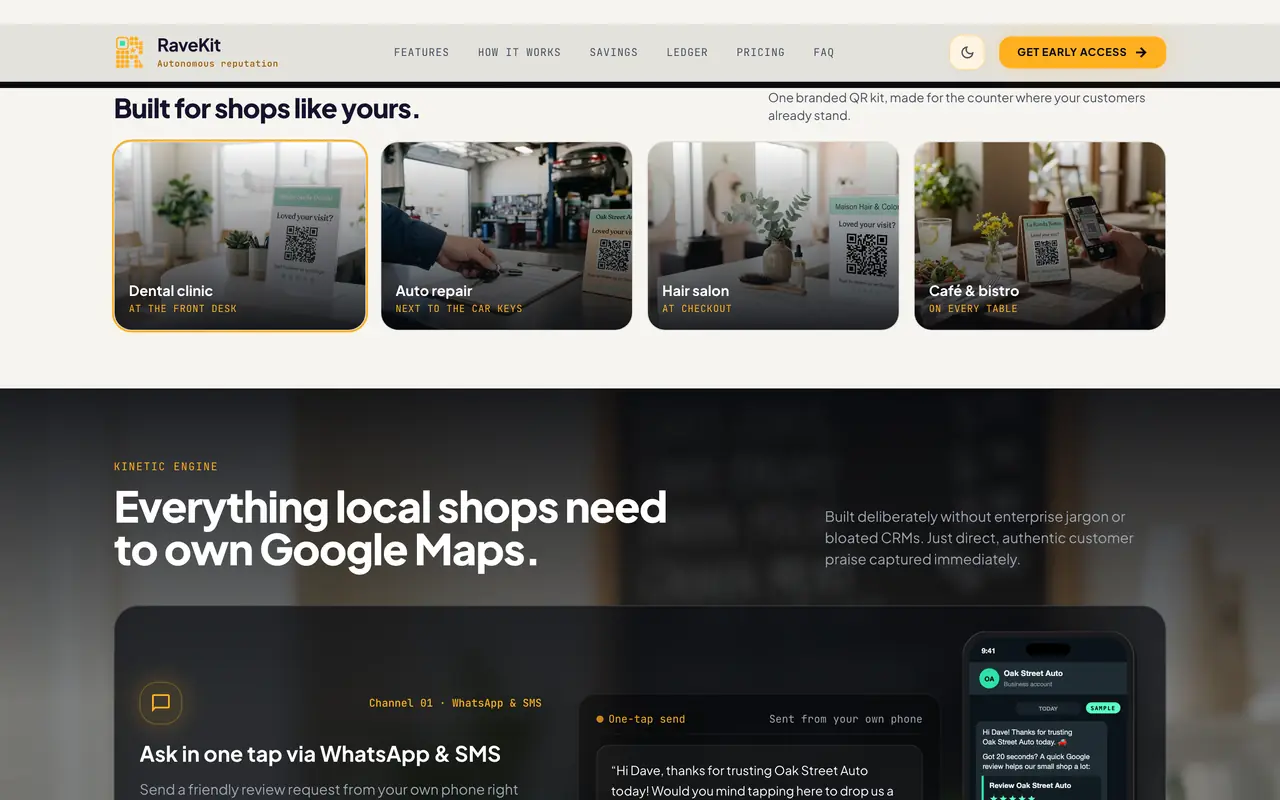
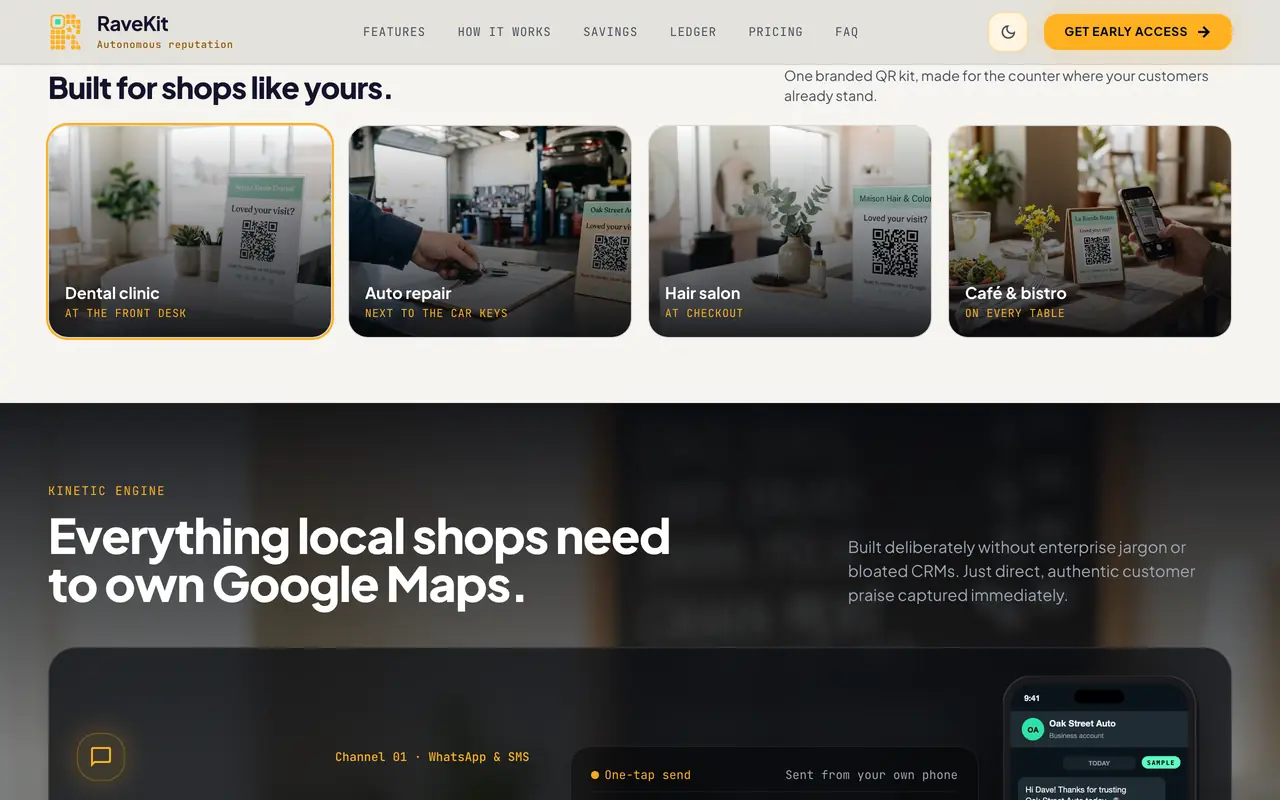
RaveKit: capturas claras nuevas en el portfolio y en el sitio publicado (sobre la versión en producción f7008cd)
Parte de la versión que está hoy en site.malackath.com (f7008cd) y le suma
solo lo de RaveKit: las capturas claras nuevas del portfolio (compu 10,
celular 10) y la ventana del hero y las tarjetas de Inicio y Trabajo con la
captura nueva. hero.py apunta al nombre nuevo (con su resumen de contenido).

Claude-Session: https://claude.ai/code/session_01XZFFR1TYj6P3ko5Kfw86ME

diff --git a/portfolio/public/index.html b/portfolio/public/index.html
@@ -218,7 +218,7 @@ h1{font:800 clamp(44px,9vw,128px)/.9 var(--display);overflow-wrap:anywhere;lette
 </section>
 <section class="proyecto" id="ravekit">
   <header class="cab"><div class="logo f-lamina"><img src="img/p/ravekit-logo-4d8887c0.webp" width="512" height="320" alt="RaveKit" loading="lazy"></div><div><span class="num">13</span><span class="tipo">App</span><h2>RaveKit</h2><p>Autonomous reputation.</p><div class="temas" role="group" aria-label="Modo de color"><button type="button" class=on data-tema="cla" aria-pressed="true">Claro</button><button type="button" data-tema="osc" aria-pressed="false">Oscuro</button></div></div></header>
-  <div class="sims" data-tema="cla"><figure class="sim compu"><div class="marco"><div class="barra-nav"><i></i><i></i><i></i></div><div class="pantalla"><img data-src="img/p/ravekit-d-01-6c8c46e9.webp" width="1280" height="800" style="background:#090b0f" alt="RaveKit: Escritorio 1 de 10" class=on><img data-src="img/p/ravekit-d-02-e13c9eb0.webp" width="1280" height="800" style="background:#2b3030" alt="RaveKit: Escritorio 2 de 10"><img data-src="img/p/ravekit-d-03-4ec01071.webp" width="1280" height="800" style="background:#282a27" alt="RaveKit: Escritorio 3 de 10"><img data-src="img/p/ravekit-d-04-95b5a625.webp" width="1280" height="800" style="background:#faebe6" alt="RaveKit: Escritorio 4 de 10"><img data-src="img/p/ravekit-d-05-47f03961.webp" width="1280" height="800" style="background:#fef9f4" alt="RaveKit: Escritorio 5 de 10"><img data-src="img/p/ravekit-d-06-4dd83e68.webp" width="1280" height="800" style="background:#ecebe8" alt="RaveKit: Escritorio 6 de 10"><img data-src="img/p/ravekit-d-07-e22b55e7.webp" width="1280" height="800" style="background:#eeece8" alt="RaveKit: Escritorio 7 de 10"><img data-src="img/p/ravekit-d-08-8cb583c0.webp" width="1280" height="800" style="background:#f7f9fb" alt="RaveKit: Escritorio 8 de 10"><img data-src="img/p/ravekit-d-09-4c812a42.webp" width="1280" height="800" style="background:#e4e2de" alt="RaveKit: Escritorio 9 de 10"><img data-src="img/p/ravekit-d-10-438b652f.webp" width="1280" height="800" style="background:#ece8e3" alt="RaveKit: Escritorio 10 de 10"></div></div><div class="nav"><button type="button" class="ant" aria-label="Anterior">&#8592;</button><span class="cuenta">1 / 10</span><button type="button" class="sig" aria-label="Siguiente">&#8594;</button></div><div class="puntos"><button type="button" aria-label="Ver 1" class=on></button><button type="button" aria-label="Ver 2"></button><button type="button" aria-label="Ver 3"></button><button type="button" aria-label="Ver 4"></button><button type="button" aria-label="Ver 5"></button><button type="button" aria-label="Ver 6"></button><button type="button" aria-label="Ver 7"></button><button type="button" aria-label="Ver 8"></button><button type="button" aria-label="Ver 9"></button><button type="button" aria-label="Ver 10"></button></div><figcaption>Escritorio</figcaption></figure><figure class="sim cel"><div class="marco"><div class="isla"></div><div class="pantalla"><img data-src="img/p/ravekit-m-01-5a0e5128.webp" width="390" height="844" style="background:#906a26" alt="RaveKit: Celular 1 de 9" class=on><img data-src="img/p/ravekit-m-02-709109d1.webp" width="390" height="844" style="background:#f6f4f0" alt="RaveKit: Celular 2 de 9"><img data-src="img/p/ravekit-m-03-90e59a94.webp" width="390" height="844" style="background:#343537" alt="RaveKit: Celular 3 de 9"><img data-src="img/p/ravekit-m-04-ecc6d0e7.webp" width="390" height="844" style="background:#1c2224" alt="RaveKit: Celular 4 de 9"><img data-src="img/p/ravekit-m-05-5feb474f.webp" width="390" height="844" style="background:#2b241f" alt="RaveKit: Celular 5 de 9"><img data-src="img/p/ravekit-m-06-5f10bab3.webp" width="390" height="844" style="background:#e4f0ea" alt="RaveKit: Celular 6 de 9"><img data-src="img/p/ravekit-m-07-63328eb0.webp" width="390" height="844" style="background:#fcfdfd" alt="RaveKit: Celular 7 de 9"><img data-src="img/p/ravekit-m-08-8c57721d.webp" width="390" height="844" style="background:#f3f0ee" alt="RaveKit: Celular 8 de 9"><img data-src="img/p/ravekit-m-09-7352c49a.webp" width="390" height="844" style="background:#f9ece8" alt="RaveKit: Celular 9 de 9"></div></div><div class="nav"><button type="button" class="ant" aria-label="Anterior">&#8592;</button><span class="cuenta">1 / 9</span><button type="button" class="sig" aria-label="Siguiente">&#8594;</button></div><div class="puntos"><button type="button" aria-label="Ver 1" class=on></button><button type="button" aria-label="Ver 2"></button><button type="button" aria-label="Ver 3"></button><button type="button" aria-label="Ver 4"></button><button type="button" aria-label="Ver 5"></button><button type="button" aria-label="Ver 6"></button><button type="button" aria-label="Ver 7"></button><button type="button" aria-label="Ver 8"></button><button type="button" aria-label="Ver 9"></button></div><figcaption>Celular</figcaption></figure></div>
+  <div class="sims" data-tema="cla"><figure class="sim compu"><div class="marco"><div class="barra-nav"><i></i><i></i><i></i></div><div class="pantalla"><img data-src="img/p/ravekit-d-01-62343fe9.webp" width="1280" height="800" style="background:#0a0c10" alt="RaveKit: Escritorio 1 de 10" class=on><img data-src="img/p/ravekit-d-02-19f1b561.webp" width="1280" height="800" style="background:#222526" alt="RaveKit: Escritorio 2 de 10"><img data-src="img/p/ravekit-d-03-95ffd1a4.webp" width="1280" height="800" style="background:#222626" alt="RaveKit: Escritorio 3 de 10"><img data-src="img/p/ravekit-d-04-514fe1e4.webp" width="1280" height="800" style="background:#fcefea" alt="RaveKit: Escritorio 4 de 10"><img data-src="img/p/ravekit-d-05-ea88f3f8.webp" width="1280" height="800" style="background:#fffbf5" alt="RaveKit: Escritorio 5 de 10"><img data-src="img/p/ravekit-d-06-b8fd362f.webp" width="1280" height="800" style="background:#f6f4f0" alt="RaveKit: Escritorio 6 de 10"><img data-src="img/p/ravekit-d-07-7ae8a3fa.webp" width="1280" height="800" style="background:#f9e1b5" alt="RaveKit: Escritorio 7 de 10"><img data-src="img/p/ravekit-d-08-b170a0e1.webp" width="1280" height="800" style="background:#f9fafc" alt="RaveKit: Escritorio 8 de 10"><img data-src="img/p/ravekit-d-09-b022caf0.webp" width="1280" height="800" style="background:#efece8" alt="RaveKit: Escritorio 9 de 10"><img data-src="img/p/ravekit-d-10-915a57f5.webp" width="1280" height="800" style="background:#ece8e3" alt="RaveKit: Escritorio 10 de 10"></div></div><div class="nav"><button type="button" class="ant" aria-label="Anterior">&#8592;</button><span class="cuenta">1 / 10</span><button type="button" class="sig" aria-label="Siguiente">&#8594;</button></div><div class="puntos"><button type="button" aria-label="Ver 1" class=on></button><button type="button" aria-label="Ver 2"></button><button type="button" aria-label="Ver 3"></button><button type="button" aria-label="Ver 4"></button><button type="button" aria-label="Ver 5"></button><button type="button" aria-label="Ver 6"></button><button type="button" aria-label="Ver 7"></button><button type="button" aria-label="Ver 8"></button><button type="button" aria-label="Ver 9"></button><button type="button" aria-label="Ver 10"></button></div><figcaption>Escritorio</figcaption></figure><figure class="sim cel"><div class="marco"><div class="isla"></div><div class="pantalla"><img data-src="img/p/ravekit-m-01-a89c528b.webp" width="390" height="844" style="background:#d4931d" alt="RaveKit: Celular 1 de 10" class=on><img data-src="img/p/ravekit-m-02-1c2f8243.webp" width="390" height="844" style="background:#191a1b" alt="RaveKit: Celular 2 de 10"><img data-src="img/p/ravekit-m-03-6022fecf.webp" width="390" height="844" style="background:#262624" alt="RaveKit: Celular 3 de 10"><img data-src="img/p/ravekit-m-04-3c3fa0c3.webp" width="390" height="844" style="background:#fcfdfd" alt="RaveKit: Celular 4 de 10"><img data-src="img/p/ravekit-m-05-86649b4b.webp" width="390" height="844" style="background:#f0e7e9" alt="RaveKit: Celular 5 de 10"><img data-src="img/p/ravekit-m-06-e3078f39.webp" width="390" height="844" style="background:#f5f3f3" alt="RaveKit: Celular 6 de 10"><img data-src="img/p/ravekit-m-07-ecb959ec.webp" width="390" height="844" style="background:#f0f0f0" alt="RaveKit: Celular 7 de 10"><img data-src="img/p/ravekit-m-08-7ee57610.webp" width="390" height="844" style="background:#e9e9ec" alt="RaveKit: Celular 8 de 10"><img data-src="img/p/ravekit-m-09-78658dad.webp" width="390" height="844" style="background:#ece8e3" alt="RaveKit: Celular 9 de 10"><img data-src="img/p/ravekit-m-10-147e84ce.webp" width="390" height="844" style="background:#ece8e3" alt="RaveKit: Celular 10 de 10"></div></div><div class="nav"><button type="button" class="ant" aria-label="Anterior">&#8592;</button><span class="cuenta">1 / 10</span><button type="button" class="sig" aria-label="Siguiente">&#8594;</button></div><div class="puntos"><button type="button" aria-label="Ver 1" class=on></button><button type="button" aria-label="Ver 2"></button><button type="button" aria-label="Ver 3"></button><button type="button" aria-label="Ver 4"></button><button type="button" aria-label="Ver 5"></button><button type="button" aria-label="Ver 6"></button><button type="button" aria-label="Ver 7"></button><button type="button" aria-label="Ver 8"></button><button type="button" aria-label="Ver 9"></button><button type="button" aria-label="Ver 10"></button></div><figcaption>Celular</figcaption></figure></div>
   <div class="sims" data-tema="osc" hidden><figure class="sim compu"><div class="marco"><div class="barra-nav"><i></i><i></i><i></i></div><div class="pantalla"><img data-src="img/p/ravekit-d-osc-01-4bbbb499.webp" width="1280" height="800" style="background:#2d221f" alt="RaveKit: Escritorio 1 de 10" class=on><img data-src="img/p/ravekit-d-osc-02-2a75229a.webp" width="1280" height="800" style="background:#383b39" alt="RaveKit: Escritorio 2 de 10"><img data-src="img/p/ravekit-d-osc-03-f4764c56.webp" width="1280" height="800" style="background:#3e4440" alt="RaveKit: Escritorio 3 de 10"><img data-src="img/p/ravekit-d-osc-04-75c8377c.webp" width="1280" height="800" style="background:#1e1629" alt="RaveKit: Escritorio 4 de 10"><img data-src="img/p/ravekit-d-osc-05-c778b423.webp" width="1280" height="800" style="background:#332439" alt="RaveKit: Escritorio 5 de 10"><img data-src="img/p/ravekit-d-osc-06-895850dc.webp" width="1280" height="800" style="background:#090b0f" alt="RaveKit: Escritorio 6 de 10"><img data-src="img/p/ravekit-d-osc-07-850df54d.webp" width="1280" height="800" style="background:#5c4823" alt="RaveKit: Escritorio 7 de 10"><img data-src="img/p/ravekit-d-osc-08-e1afa1de.webp" width="1280" height="800" style="background:#1b2436" alt="RaveKit: Escritorio 8 de 10"><img data-src="img/p/ravekit-d-osc-09-156db42e.webp" width="1280" height="800" style="background:#06090d" alt="RaveKit: Escritorio 9 de 10"><img data-src="img/p/ravekit-d-osc-10-f0252bc8.webp" width="1280" height="800" style="background:#05070b" alt="RaveKit: Escritorio 10 de 10"></div></div><div class="nav"><button type="button" class="ant" aria-label="Anterior">&#8592;</button><span class="cuenta">1 / 10</span><button type="button" class="sig" aria-label="Siguiente">&#8594;</button></div><div class="puntos"><button type="button" aria-label="Ver 1" class=on></button><button type="button" aria-label="Ver 2"></button><button type="button" aria-label="Ver 3"></button><button type="button" aria-label="Ver 4"></button><button type="button" aria-label="Ver 5"></button><button type="button" aria-label="Ver 6"></button><button type="button" aria-label="Ver 7"></button><button type="button" aria-label="Ver 8"></button><button type="button" aria-label="Ver 9"></button><button type="button" aria-label="Ver 10"></button></div><figcaption>Escritorio</figcaption></figure><figure class="sim cel"><div class="marco"><div class="isla"></div><div class="pantalla"><img data-src="img/p/ravekit-m-osc-01-61d9bcf5.webp" width="390" height="844" style="background:#db9921" alt="RaveKit: Celular 1 de 10" class=on><img data-src="img/p/ravekit-m-osc-02-e679abc4.webp" width="390" height="844" style="background:#2c2c2d" alt="RaveKit: Celular 2 de 10"><img data-src="img/p/ravekit-m-osc-03-fe0bad3e.webp" width="390" height="844" style="background:#33322e" alt="RaveKit: Celular 3 de 10"><img data-src="img/p/ravekit-m-osc-04-0a25ebd9.webp" width="390" height="844" style="background:#1d283a" alt="RaveKit: Celular 4 de 10"><img data-src="img/p/ravekit-m-osc-05-55a6ee1f.webp" width="390" height="844" style="background:#181220" alt="RaveKit: Celular 5 de 10"><img data-src="img/p/ravekit-m-osc-06-2478c2f0.webp" width="390" height="844" style="background:#32283d" alt="RaveKit: Celular 6 de 10"><img data-src="img/p/ravekit-m-osc-07-a6710146.webp" width="390" height="844" style="background:#242934" alt="RaveKit: Celular 7 de 10"><img data-src="img/p/ravekit-m-osc-08-2cb36d17.webp" width="390" height="844" style="background:#2e3847" alt="RaveKit: Celular 8 de 10"><img data-src="img/p/ravekit-m-osc-09-f2091256.webp" width="390" height="844" style="background:#05070b" alt="RaveKit: Celular 9 de 10"><img data-src="img/p/ravekit-m-osc-10-7e321836.webp" width="390" height="844" style="background:#05070b" alt="RaveKit: Celular 10 de 10"></div></div><div class="nav"><button type="button" class="ant" aria-label="Anterior">&#8592;</button><span class="cuenta">1 / 10</span><button type="button" class="sig" aria-label="Siguiente">&#8594;</button></div><div class="puntos"><button type="button" aria-label="Ver 1" class=on></button><button type="button" aria-label="Ver 2"></button><button type="button" aria-label="Ver 3"></button><button type="button" aria-label="Ver 4"></button><button type="button" aria-label="Ver 5"></button><button type="button" aria-label="Ver 6"></button><button type="button" aria-label="Ver 7"></button><button type="button" aria-label="Ver 8"></button><button type="button" aria-label="Ver 9"></button><button type="button" aria-label="Ver 10"></button></div><figcaption>Celular</figcaption></figure></div>
 </section>
 <section class="proyecto" id="ecos">

diff --git a/public/pt/index.html b/public/pt/index.html
@@ -318,7 +318,7 @@ main section{position:relative}
 <span class="material-symbols-outlined text-[16px] text-secondary">token</span>
 </div>
 <div class="relative flex-1 w-full overflow-hidden">
-<img class="w-full h-full object-cover object-top" alt="getravekit.com" src="../img/portfolio/ravekit-d-01-6c8c46e9.webp"/>
+<img class="w-full h-full object-cover object-top" alt="getravekit.com" src="../img/portfolio/ravekit-d-01-62343fe9.webp"/>
 <div class="absolute inset-0 bg-surface-container-lowest/30"></div>
 <div class="absolute top-space-sm right-space-sm px-space-sm py-space-xs rounded-full bg-secondary-container text-secondary font-label-sm text-label-sm uppercase">RaveKit</div>
 </div>
@@ -354,7 +354,7 @@ main section{position:relative}
 </div>
 </div>
 <template data-rot="centro"><div data-url="https://cartelerauy.malackath.com"><img src="../img/portfolio/cartelera-d-01-818af77e.webp" alt="Cartelera Uruguay"/><span data-k="barra">cartelerauy.malackath.com</span><span data-k="tipo">App</span><span data-k="rubro">Agenda cultural</span><span data-k="titulo">Cartelera Uruguay</span><span data-k="chip">19 departamentos</span></div><div data-url="https://portfolio.malackath.com/#nunca-te-falla"><img src="../img/portfolio/nunca-te-falla-d-01-81242e06.webp" alt="Nunca Te Falla"/><span data-k="barra">Nunca Te Falla</span><span data-k="tipo">App</span><span data-k="rubro">Marketplace de serviços</span><span data-k="titulo">Nunca Te Falla</span><span data-k="chip">Cliente e profissional</span></div><div data-url="https://marealtagastro.com"><img src="../img/portfolio/marealta-consultora-d-01-3e963d07.webp" alt="Marea Alta"/><span data-k="barra">marealtagastro.com</span><span data-k="tipo">Empresa</span><span data-k="rubro">Consultoria gastronômica</span><span data-k="titulo">Marea Alta</span><span data-k="chip">Pernambuco, Brasil</span></div><div data-url="https://portfolio.malackath.com/#barajala"><img src="../img/portfolio/barajala-d-01-71b09609.webp" alt="Barajala"/><span data-k="barra">Barajala</span><span data-k="tipo">App</span><span data-k="rubro">Jogos de cartas</span><span data-k="titulo">Barajala</span><span data-k="chip">Baralho espanhol</span></div><div data-url="https://mesaluma.arnelli.com"><img src="../img/portfolio/mesaluma-d-01-9a466b8e.webp" alt="Mesaluma"/><span data-k="barra">mesaluma.arnelli.com</span><span data-k="tipo">App</span><span data-k="rubro">Salão e reservas</span><span data-k="titulo">Mesaluma</span><span data-k="chip">App para garçons</span></div></template>
-<template data-rot="izquierda"><div data-url="https://getravekit.com"><img src="../img/portfolio/ravekit-d-01-6c8c46e9.webp" alt="RaveKit"/><span data-k="barra">getravekit.com</span><span data-k="chip">RaveKit</span></div><div data-url="https://portfolio.malackath.com/#coinciva"><img src="../img/portfolio/coinciva-d-01-1a29c0bc.webp" alt="Coinciva"/><span data-k="barra">Coinciva</span><span data-k="chip">Coinciva</span></div><div data-url="https://portfolio.malackath.com/#zoomi"><img src="../img/portfolio/zoomi-d-01-c4300158.webp" alt="Zoomi"/><span data-k="barra">Zoomi</span><span data-k="chip">Zoomi</span></div><div data-url="https://portfolio.malackath.com/#jip"><img src="../img/portfolio/jip-d-01-81bfe761.webp" alt="JIP"/><span data-k="barra">JIP</span><span data-k="chip">JIP</span></div><div data-url="https://ecos.arnelli.com"><img src="../img/portfolio/ecos-d-01-47491bb4.webp" alt="ECOS"/><span data-k="barra">ecos.arnelli.com</span><span data-k="chip">ECOS</span></div></template>
+<template data-rot="izquierda"><div data-url="https://getravekit.com"><img src="../img/portfolio/ravekit-d-01-62343fe9.webp" alt="RaveKit"/><span data-k="barra">getravekit.com</span><span data-k="chip">RaveKit</span></div><div data-url="https://portfolio.malackath.com/#coinciva"><img src="../img/portfolio/coinciva-d-01-1a29c0bc.webp" alt="Coinciva"/><span data-k="barra">Coinciva</span><span data-k="chip">Coinciva</span></div><div data-url="https://portfolio.malackath.com/#zoomi"><img src="../img/portfolio/zoomi-d-01-c4300158.webp" alt="Zoomi"/><span data-k="barra">Zoomi</span><span data-k="chip">Zoomi</span></div><div data-url="https://portfolio.malackath.com/#jip"><img src="../img/portfolio/jip-d-01-81bfe761.webp" alt="JIP"/><span data-k="barra">JIP</span><span data-k="chip">JIP</span></div><div data-url="https://ecos.arnelli.com"><img src="../img/portfolio/ecos-d-01-47491bb4.webp" alt="ECOS"/><span data-k="barra">ecos.arnelli.com</span><span data-k="chip">ECOS</span></div></template>
 <template data-rot="celular"><div data-url="casos/arma-partido.html"><img src="../img/portfolio/arma-partido-m-01-1e6e51fe.webp" alt="Armá Partido"/><span data-k="chip">App de padel</span><span data-k="titulo">Armá Partido</span></div><div data-url="casos/pizcaya.html"><img src="../img/portfolio/pizcaya-m-01-cae56888.webp" alt="Pizcaya"/><span data-k="chip">Aprender a cozinhar</span><span data-k="titulo">Pizcaya</span></div><div data-url="https://palquear.arnelli.com"><img src="../img/portfolio/palquear-m-01-d953f0cc.webp" alt="Palquear"/><span data-k="chip">Camarotes de futebol</span><span data-k="titulo">Palquear</span></div><div data-url="https://portfolio.malackath.com/#ruvia"><img src="../img/portfolio/ruvia-m-01-95ae4a53.webp" alt="RuVIA"/><span data-k="chip">Transporte de Montevidéu</span><span data-k="titulo">RuVIA</span></div><div data-url="https://portfolio.malackath.com/#patovava"><img src="../img/portfolio/patovava-m-01-0659b4b2.webp" alt="PatovaVa"/><span data-k="chip">Traslados à noite</span><span data-k="titulo">PatovaVa</span></div></template>
 </section>
 <!-- 2. CLIENT & PROJECT MARQUEE -->
@@ -437,7 +437,7 @@ main section{position:relative}
 <!-- Project 4: RaveKit (Span 4) -->
 <article class="lg:col-span-4 group rounded-xl caja-lima p-space-lg flex flex-col justify-between gap-space-lg  transition-all duration-300 shadow-lg">
 <div style="box-shadow:0 26px 50px -12px rgba(23,30,0,.7),0 8px 18px rgba(23,30,0,.35)" class="relative w-full h-56 rounded-lg overflow-hidden bg-surface-container-lowest">
-<img alt="RaveKit: site getravekit.com" loading="lazy" style="object-position:left top" class="w-full h-full object-cover group-hover:scale-105 transition-transform duration-500" src="../img/portfolio/ravekit-d-01-6c8c46e9.webp"/>
+<img alt="RaveKit: site getravekit.com" loading="lazy" style="object-position:left top" class="w-full h-full object-cover group-hover:scale-105 transition-transform duration-500" src="../img/portfolio/ravekit-d-01-62343fe9.webp"/>
 <div class="absolute top-space-md left-space-md flex items-center gap-space-xs px-space-sm py-space-xs rounded-full bg-surface/90 backdrop-blur-md">
 <span class="h-2 w-2 rounded-full bg-primary-container"></span>
 <span class="font-label-sm text-label-sm uppercase text-primary">getravekit.com</span>

diff --git a/public/en/index.html b/public/en/index.html
@@ -318,7 +318,7 @@ main section{position:relative}
 <span class="material-symbols-outlined text-[16px] text-secondary">token</span>
 </div>
 <div class="relative flex-1 w-full overflow-hidden">
-<img class="w-full h-full object-cover object-top" alt="getravekit.com" src="../img/portfolio/ravekit-d-01-6c8c46e9.webp"/>
+<img class="w-full h-full object-cover object-top" alt="getravekit.com" src="../img/portfolio/ravekit-d-01-62343fe9.webp"/>
 <div class="absolute inset-0 bg-surface-container-lowest/30"></div>
 <div class="absolute top-space-sm right-space-sm px-space-sm py-space-xs rounded-full bg-secondary-container text-secondary font-label-sm text-label-sm uppercase">RaveKit</div>
 </div>
@@ -354,7 +354,7 @@ main section{position:relative}
 </div>
 </div>
 <template data-rot="centro"><div data-url="https://cartelerauy.malackath.com"><img src="../img/portfolio/cartelera-d-01-818af77e.webp" alt="Cartelera Uruguay"/><span data-k="barra">cartelerauy.malackath.com</span><span data-k="tipo">App</span><span data-k="rubro">Cultural agenda</span><span data-k="titulo">Cartelera Uruguay</span><span data-k="chip">19 departments</span></div><div data-url="https://portfolio.malackath.com/#nunca-te-falla"><img src="../img/portfolio/nunca-te-falla-d-01-81242e06.webp" alt="Nunca Te Falla"/><span data-k="barra">Nunca Te Falla</span><span data-k="tipo">App</span><span data-k="rubro">Trades marketplace</span><span data-k="titulo">Nunca Te Falla</span><span data-k="chip">Client and professional</span></div><div data-url="https://marealtagastro.com"><img src="../img/portfolio/marealta-consultora-d-01-3e963d07.webp" alt="Marea Alta"/><span data-k="barra">marealtagastro.com</span><span data-k="tipo">Company</span><span data-k="rubro">Food service consultancy</span><span data-k="titulo">Marea Alta</span><span data-k="chip">Pernambuco, Brazil</span></div><div data-url="https://portfolio.malackath.com/#barajala"><img src="../img/portfolio/barajala-d-01-71b09609.webp" alt="Barajala"/><span data-k="barra">Barajala</span><span data-k="tipo">App</span><span data-k="rubro">Card games</span><span data-k="titulo">Barajala</span><span data-k="chip">Spanish deck</span></div><div data-url="https://mesaluma.arnelli.com"><img src="../img/portfolio/mesaluma-d-01-9a466b8e.webp" alt="Mesaluma"/><span data-k="barra">mesaluma.arnelli.com</span><span data-k="tipo">App</span><span data-k="rubro">Floor and bookings</span><span data-k="titulo">Mesaluma</span><span data-k="chip">Waiter app</span></div></template>
-<template data-rot="izquierda"><div data-url="https://getravekit.com"><img src="../img/portfolio/ravekit-d-01-6c8c46e9.webp" alt="RaveKit"/><span data-k="barra">getravekit.com</span><span data-k="chip">RaveKit</span></div><div data-url="https://portfolio.malackath.com/#coinciva"><img src="../img/portfolio/coinciva-d-01-1a29c0bc.webp" alt="Coinciva"/><span data-k="barra">Coinciva</span><span data-k="chip">Coinciva</span></div><div data-url="https://portfolio.malackath.com/#zoomi"><img src="../img/portfolio/zoomi-d-01-c4300158.webp" alt="Zoomi"/><span data-k="barra">Zoomi</span><span data-k="chip">Zoomi</span></div><div data-url="https://portfolio.malackath.com/#jip"><img src="../img/portfolio/jip-d-01-81bfe761.webp" alt="JIP"/><span data-k="barra">JIP</span><span data-k="chip">JIP</span></div><div data-url="https://ecos.arnelli.com"><img src="../img/portfolio/ecos-d-01-47491bb4.webp" alt="ECOS"/><span data-k="barra">ecos.arnelli.com</span><span data-k="chip">ECOS</span></div></template>
+<template data-rot="izquierda"><div data-url="https://getravekit.com"><img src="../img/portfolio/ravekit-d-01-62343fe9.webp" alt="RaveKit"/><span data-k="barra">getravekit.com</span><span data-k="chip">RaveKit</span></div><div data-url="https://portfolio.malackath.com/#coinciva"><img src="../img/portfolio/coinciva-d-01-1a29c0bc.webp" alt="Coinciva"/><span data-k="barra">Coinciva</span><span data-k="chip">Coinciva</span></div><div data-url="https://portfolio.malackath.com/#zoomi"><img src="../img/portfolio/zoomi-d-01-c4300158.webp" alt="Zoomi"/><span data-k="barra">Zoomi</span><span data-k="chip">Zoomi</span></div><div data-url="https://portfolio.malackath.com/#jip"><img src="../img/portfolio/jip-d-01-81bfe761.webp" alt="JIP"/><span data-k="barra">JIP</span><span data-k="chip">JIP</span></div><div data-url="https://ecos.arnelli.com"><img src="../img/portfolio/ecos-d-01-47491bb4.webp" alt="ECOS"/><span data-k="barra">ecos.arnelli.com</span><span data-k="chip">ECOS</span></div></template>
 <template data-rot="celular"><div data-url="casos/arma-partido.html"><img src="../img/portfolio/arma-partido-m-01-1e6e51fe.webp" alt="Armá Partido"/><span data-k="chip">Padel app</span><span data-k="titulo">Armá Partido</span></div><div data-url="casos/pizcaya.html"><img src="../img/portfolio/pizcaya-m-01-cae56888.webp" alt="Pizcaya"/><span data-k="chip">Learn to cook</span><span data-k="titulo">Pizcaya</span></div><div data-url="https://palquear.arnelli.com"><img src="../img/portfolio/palquear-m-01-d953f0cc.webp" alt="Palquear"/><span data-k="chip">Football stadium boxes</span><span data-k="titulo">Palquear</span></div><div data-url="https://portfolio.malackath.com/#ruvia"><img src="../img/portfolio/ruvia-m-01-95ae4a53.webp" alt="RuVIA"/><span data-k="chip">Montevideo transport</span><span data-k="titulo">RuVIA</span></div><div data-url="https://portfolio.malackath.com/#patovava"><img src="../img/portfolio/patovava-m-01-0659b4b2.webp" alt="PatovaVa"/><span data-k="chip">Night rides</span><span data-k="titulo">PatovaVa</span></div></template>
 </section>
 <!-- 2. CLIENT & PROJECT MARQUEE -->
@@ -437,7 +437,7 @@ main section{position:relative}
 <!-- Project 4: RaveKit (Span 4) -->
 <article class="lg:col-span-4 group rounded-xl caja-lima p-space-lg flex flex-col justify-between gap-space-lg  transition-all duration-300 shadow-lg">
 <div style="box-shadow:0 26px 50px -12px rgba(23,30,0,.7),0 8px 18px rgba(23,30,0,.35)" class="relative w-full h-56 rounded-lg overflow-hidden bg-surface-container-lowest">
-<img alt="RaveKit: getravekit.com website" loading="lazy" style="object-position:left top" class="w-full h-full object-cover group-hover:scale-105 transition-transform duration-500" src="../img/portfolio/ravekit-d-01-6c8c46e9.webp"/>
+<img alt="RaveKit: getravekit.com website" loading="lazy" style="object-position:left top" class="w-full h-full object-cover group-hover:scale-105 transition-transform duration-500" src="../img/portfolio/ravekit-d-01-62343fe9.webp"/>
 <div class="absolute top-space-md left-space-md flex items-center gap-space-xs px-space-sm py-space-xs rounded-full bg-surface/90 backdrop-blur-md">
 <span class="h-2 w-2 rounded-full bg-primary-container"></span>
 <span class="font-label-sm text-label-sm uppercase text-primary">getravekit.com</span>

diff --git a/public/index.html b/public/index.html
@@ -318,7 +318,7 @@ main section{position:relative}
 <span class="material-symbols-outlined text-[16px] text-secondary">token</span>
 </div>
 <div class="relative flex-1 w-full overflow-hidden">
-<img class="w-full h-full object-cover object-top" alt="getravekit.com" src="img/portfolio/ravekit-d-01-6c8c46e9.webp"/>
+<img class="w-full h-full object-cover object-top" alt="getravekit.com" src="img/portfolio/ravekit-d-01-62343fe9.webp"/>
 <div class="absolute inset-0 bg-surface-container-lowest/30"></div>
 <div class="absolute top-space-sm right-space-sm px-space-sm py-space-xs rounded-full bg-secondary-container text-secondary font-label-sm text-label-sm uppercase">RaveKit</div>
 </div>
@@ -354,7 +354,7 @@ main section{position:relative}
 </div>
 </div>
 <template data-rot="centro"><div data-url="https://cartelerauy.malackath.com"><img src="img/portfolio/cartelera-d-01-818af77e.webp" alt="Cartelera Uruguay"/><span data-k="barra">cartelerauy.malackath.com</span><span data-k="tipo">App</span><span data-k="rubro">Agenda cultural</span><span data-k="titulo">Cartelera Uruguay</span><span data-k="chip">19 departamentos</span></div><div data-url="https://portfolio.malackath.com/#nunca-te-falla"><img src="img/portfolio/nunca-te-falla-d-01-81242e06.webp" alt="Nunca Te Falla"/><span data-k="barra">Nunca Te Falla</span><span data-k="tipo">App</span><span data-k="rubro">Marketplace de oficios</span><span data-k="titulo">Nunca Te Falla</span><span data-k="chip">Cliente y profesional</span></div><div data-url="https://marealtagastro.com"><img src="img/portfolio/marealta-consultora-d-01-3e963d07.webp" alt="Marea Alta"/><span data-k="barra">marealtagastro.com</span><span data-k="tipo">Empresa</span><span data-k="rubro">Consultoría gastronómica</span><span data-k="titulo">Marea Alta</span><span data-k="chip">Pernambuco, Brasil</span></div><div data-url="https://portfolio.malackath.com/#barajala"><img src="img/portfolio/barajala-d-01-71b09609.webp" alt="Barajala"/><span data-k="barra">Barajala</span><span data-k="tipo">App</span><span data-k="rubro">Juegos de cartas</span><span data-k="titulo">Barajala</span><span data-k="chip">Baraja española</span></div><div data-url="https://mesaluma.arnelli.com"><img src="img/portfolio/mesaluma-d-01-9a466b8e.webp" alt="Mesaluma"/><span data-k="barra">mesaluma.arnelli.com</span><span data-k="tipo">App</span><span data-k="rubro">Salón y reservas</span><span data-k="titulo">Mesaluma</span><span data-k="chip">App para mozos</span></div></template>
-<template data-rot="izquierda"><div data-url="https://getravekit.com"><img src="img/portfolio/ravekit-d-01-6c8c46e9.webp" alt="RaveKit"/><span data-k="barra">getravekit.com</span><span data-k="chip">RaveKit</span></div><div data-url="https://portfolio.malackath.com/#coinciva"><img src="img/portfolio/coinciva-d-01-1a29c0bc.webp" alt="Coinciva"/><span data-k="barra">Coinciva</span><span data-k="chip">Coinciva</span></div><div data-url="https://portfolio.malackath.com/#zoomi"><img src="img/portfolio/zoomi-d-01-c4300158.webp" alt="Zoomi"/><span data-k="barra">Zoomi</span><span data-k="chip">Zoomi</span></div><div data-url="https://portfolio.malackath.com/#jip"><img src="img/portfolio/jip-d-01-81bfe761.webp" alt="JIP"/><span data-k="barra">JIP</span><span data-k="chip">JIP</span></div><div data-url="https://ecos.arnelli.com"><img src="img/portfolio/ecos-d-01-47491bb4.webp" alt="ECOS"/><span data-k="barra">ecos.arnelli.com</span><span data-k="chip">ECOS</span></div></template>
+<template data-rot="izquierda"><div data-url="https://getravekit.com"><img src="img/portfolio/ravekit-d-01-62343fe9.webp" alt="RaveKit"/><span data-k="barra">getravekit.com</span><span data-k="chip">RaveKit</span></div><div data-url="https://portfolio.malackath.com/#coinciva"><img src="img/portfolio/coinciva-d-01-1a29c0bc.webp" alt="Coinciva"/><span data-k="barra">Coinciva</span><span data-k="chip">Coinciva</span></div><div data-url="https://portfolio.malackath.com/#zoomi"><img src="img/portfolio/zoomi-d-01-c4300158.webp" alt="Zoomi"/><span data-k="barra">Zoomi</span><span data-k="chip">Zoomi</span></div><div data-url="https://portfolio.malackath.com/#jip"><img src="img/portfolio/jip-d-01-81bfe761.webp" alt="JIP"/><span data-k="barra">JIP</span><span data-k="chip">JIP</span></div><div data-url="https://ecos.arnelli.com"><img src="img/portfolio/ecos-d-01-47491bb4.webp" alt="ECOS"/><span data-k="barra">ecos.arnelli.com</span><span data-k="chip">ECOS</span></div></template>
 <template data-rot="celular"><div data-url="casos/arma-partido.html"><img src="img/portfolio/arma-partido-m-01-1e6e51fe.webp" alt="Armá Partido"/><span data-k="chip">App de pádel</span><span data-k="titulo">Armá Partido</span></div><div data-url="casos/pizcaya.html"><img src="img/portfolio/pizcaya-m-01-cae56888.webp" alt="Pizcaya"/><span data-k="chip">Aprender a cocinar</span><span data-k="titulo">Pizcaya</span></div><div data-url="https://palquear.arnelli.com"><img src="img/portfolio/palquear-m-01-d953f0cc.webp" alt="Palquear"/><span data-k="chip">Palcos de fútbol</span><span data-k="titulo">Palquear</span></div><div data-url="https://portfolio.malackath.com/#ruvia"><img src="img/portfolio/ruvia-m-01-95ae4a53.webp" alt="RuVIA"/><span data-k="chip">Transporte de Montevideo</span><span data-k="titulo">RuVIA</span></div><div data-url="https://portfolio.malackath.com/#patovava"><img src="img/portfolio/patovava-m-01-0659b4b2.webp" alt="PatovaVa"/><span data-k="chip">Traslados de noche</span><span data-k="titulo">PatovaVa</span></div></template>
 </section>
 <!-- 2. CLIENT & PROJECT MARQUEE -->
@@ -437,7 +437,7 @@ main section{position:relative}
 <!-- Project 4: RaveKit (Span 4) -->
 <article class="lg:col-span-4 group rounded-xl caja-lima p-space-lg flex flex-col justify-between gap-space-lg  transition-all duration-300 shadow-lg">
 <div style="box-shadow:0 26px 50px -12px rgba(23,30,0,.7),0 8px 18px rgba(23,30,0,.35)" class="relative w-full h-56 rounded-lg overflow-hidden bg-surface-container-lowest">
-<img alt="RaveKit: sitio getravekit.com" loading="lazy" style="object-position:left top" class="w-full h-full object-cover group-hover:scale-105 transition-transform duration-500" src="img/portfolio/ravekit-d-01-6c8c46e9.webp"/>
+<img alt="RaveKit: sitio getravekit.com" loading="lazy" style="object-position:left top" class="w-full h-full object-cover group-hover:scale-105 transition-transform duration-500" src="img/portfolio/ravekit-d-01-62343fe9.webp"/>
 <div class="absolute top-space-md left-space-md flex items-center gap-space-xs px-space-sm py-space-xs rounded-full bg-surface/90 backdrop-blur-md">
 <span class="h-2 w-2 rounded-full bg-primary-container"></span>
 <span class="font-label-sm text-label-sm uppercase text-primary">getravekit.com</span>

diff --git a/public/en/trabajo.html b/public/en/trabajo.html
@@ -303,7 +303,7 @@
 <!-- Project 05: VOXEL ARCHITECTURE (Span 6 Cols) -->
 <article class="project-card md:row-span-2 md:grid md:grid-rows-subgrid md:gap-0 md:col-span-6 flex flex-col group relative rounded-xl bg-surface-container-low overflow-hidden shadow-xl transition-all duration-500 hover:-translate-y-1" data-category="branding">
 <div class="relative w-full aspect-[16/11] overflow-hidden bg-surface-container-highest">
-<img alt="RaveKit: getravekit.com website" loading="lazy" style="object-position:left top" class="w-full h-full object-cover transition-transform duration-700 group-hover:scale-105" src="../img/portfolio/ravekit-d-01-6c8c46e9.webp"/>
+<img alt="RaveKit: getravekit.com website" loading="lazy" style="object-position:left top" class="w-full h-full object-cover transition-transform duration-700 group-hover:scale-105" src="../img/portfolio/ravekit-d-01-62343fe9.webp"/>
 <div class="absolute inset-0 bg-gradient-to-t from-surface-container-lowest via-surface-container-lowest/30 to-transparent"></div>
 <div class="absolute top-space-md left-space-md flex flex-wrap items-center gap-space-xs">
 <span class="px-space-sm py-space-xs rounded-full bg-surface-container-lowest/80 backdrop-blur-md font-label-sm text-label-sm uppercase text-primary tracking-wider">

diff --git a/public/pt/trabajo.html b/public/pt/trabajo.html
@@ -303,7 +303,7 @@
 <!-- Project 05: VOXEL ARCHITECTURE (Span 6 Cols) -->
 <article class="project-card md:row-span-2 md:grid md:grid-rows-subgrid md:gap-0 md:col-span-6 flex flex-col group relative rounded-xl bg-surface-container-low overflow-hidden shadow-xl transition-all duration-500 hover:-translate-y-1" data-category="branding">
 <div class="relative w-full aspect-[16/11] overflow-hidden bg-surface-container-highest">
-<img alt="RaveKit: site getravekit.com" loading="lazy" style="object-position:left top" class="w-full h-full object-cover transition-transform duration-700 group-hover:scale-105" src="../img/portfolio/ravekit-d-01-6c8c46e9.webp"/>
+<img alt="RaveKit: site getravekit.com" loading="lazy" style="object-position:left top" class="w-full h-full object-cover transition-transform duration-700 group-hover:scale-105" src="../img/portfolio/ravekit-d-01-62343fe9.webp"/>
 <div class="absolute inset-0 bg-gradient-to-t from-surface-container-lowest via-surface-container-lowest/30 to-transparent"></div>
 <div class="absolute top-space-md left-space-md flex flex-wrap items-center gap-space-xs">
 <span class="px-space-sm py-space-xs rounded-full bg-surface-container-lowest/80 backdrop-blur-md font-label-sm text-label-sm uppercase text-primary tracking-wider">

diff --git a/public/trabajo.html b/public/trabajo.html
@@ -303,7 +303,7 @@
 <!-- Project 05: VOXEL ARCHITECTURE (Span 6 Cols) -->
 <article class="project-card md:row-span-2 md:grid md:grid-rows-subgrid md:gap-0 md:col-span-6 flex flex-col group relative rounded-xl bg-surface-container-low overflow-hidden shadow-xl transition-all duration-500 hover:-translate-y-1" data-category="branding">
 <div class="relative w-full aspect-[16/11] overflow-hidden bg-surface-container-highest">
-<img alt="RaveKit: sitio getravekit.com" loading="lazy" style="object-position:left top" class="w-full h-full object-cover transition-transform duration-700 group-hover:scale-105" src="img/portfolio/ravekit-d-01-6c8c46e9.webp"/>
+<img alt="RaveKit: sitio getravekit.com" loading="lazy" style="object-position:left top" class="w-full h-full object-cover transition-transform duration-700 group-hover:scale-105" src="img/portfolio/ravekit-d-01-62343fe9.webp"/>
 <div class="absolute inset-0 bg-gradient-to-t from-surface-container-lowest via-surface-container-lowest/30 to-transparent"></div>
 <div class="absolute top-space-md left-space-md flex flex-wrap items-center gap-space-xs">
 <span class="px-space-sm py-space-xs rounded-full bg-surface-container-lowest/80 backdrop-blur-md font-label-sm text-label-sm uppercase text-primary tracking-wider">

diff --git a/hero.py b/hero.py
@@ -21,7 +21,7 @@ SLOTS = {
     },
     # ventana de la izquierda (navegador inclinado)
     "izquierda": {
-        "imagen": "img/portfolio/ravekit-d-01-6c8c46e9.webp",
+        "imagen": "img/portfolio/ravekit-d-01-62343fe9.webp",
         "url": "https://getravekit.com",
         "barra": "getravekit.com",
         "chip": "RaveKit",
@@ -59,7 +59,7 @@ ROTACION = {
              tipo="App", rubro="Salón y reservas", titulo="Mesaluma", chip="App para mozos"),
     ],
     "izquierda": [   # barra, chip (nombre)
-        dict(img="ravekit-d-01-6c8c46e9.webp", url="https://getravekit.com", barra="getravekit.com", chip="RaveKit"),
+        dict(img="ravekit-d-01-62343fe9.webp", url="https://getravekit.com", barra="getravekit.com", chip="RaveKit"),
         dict(img="coinciva-d-01-1a29c0bc.webp", url=PF + "coinciva", barra="Coinciva", chip="Coinciva"),
         dict(img="zoomi-d-01-c4300158.webp", url=PF + "zoomi", barra="Zoomi", chip="Zoomi"),
         dict(img="jip-d-01-81bfe761.webp", url=PF + "jip", barra="JIP", chip="JIP"),
